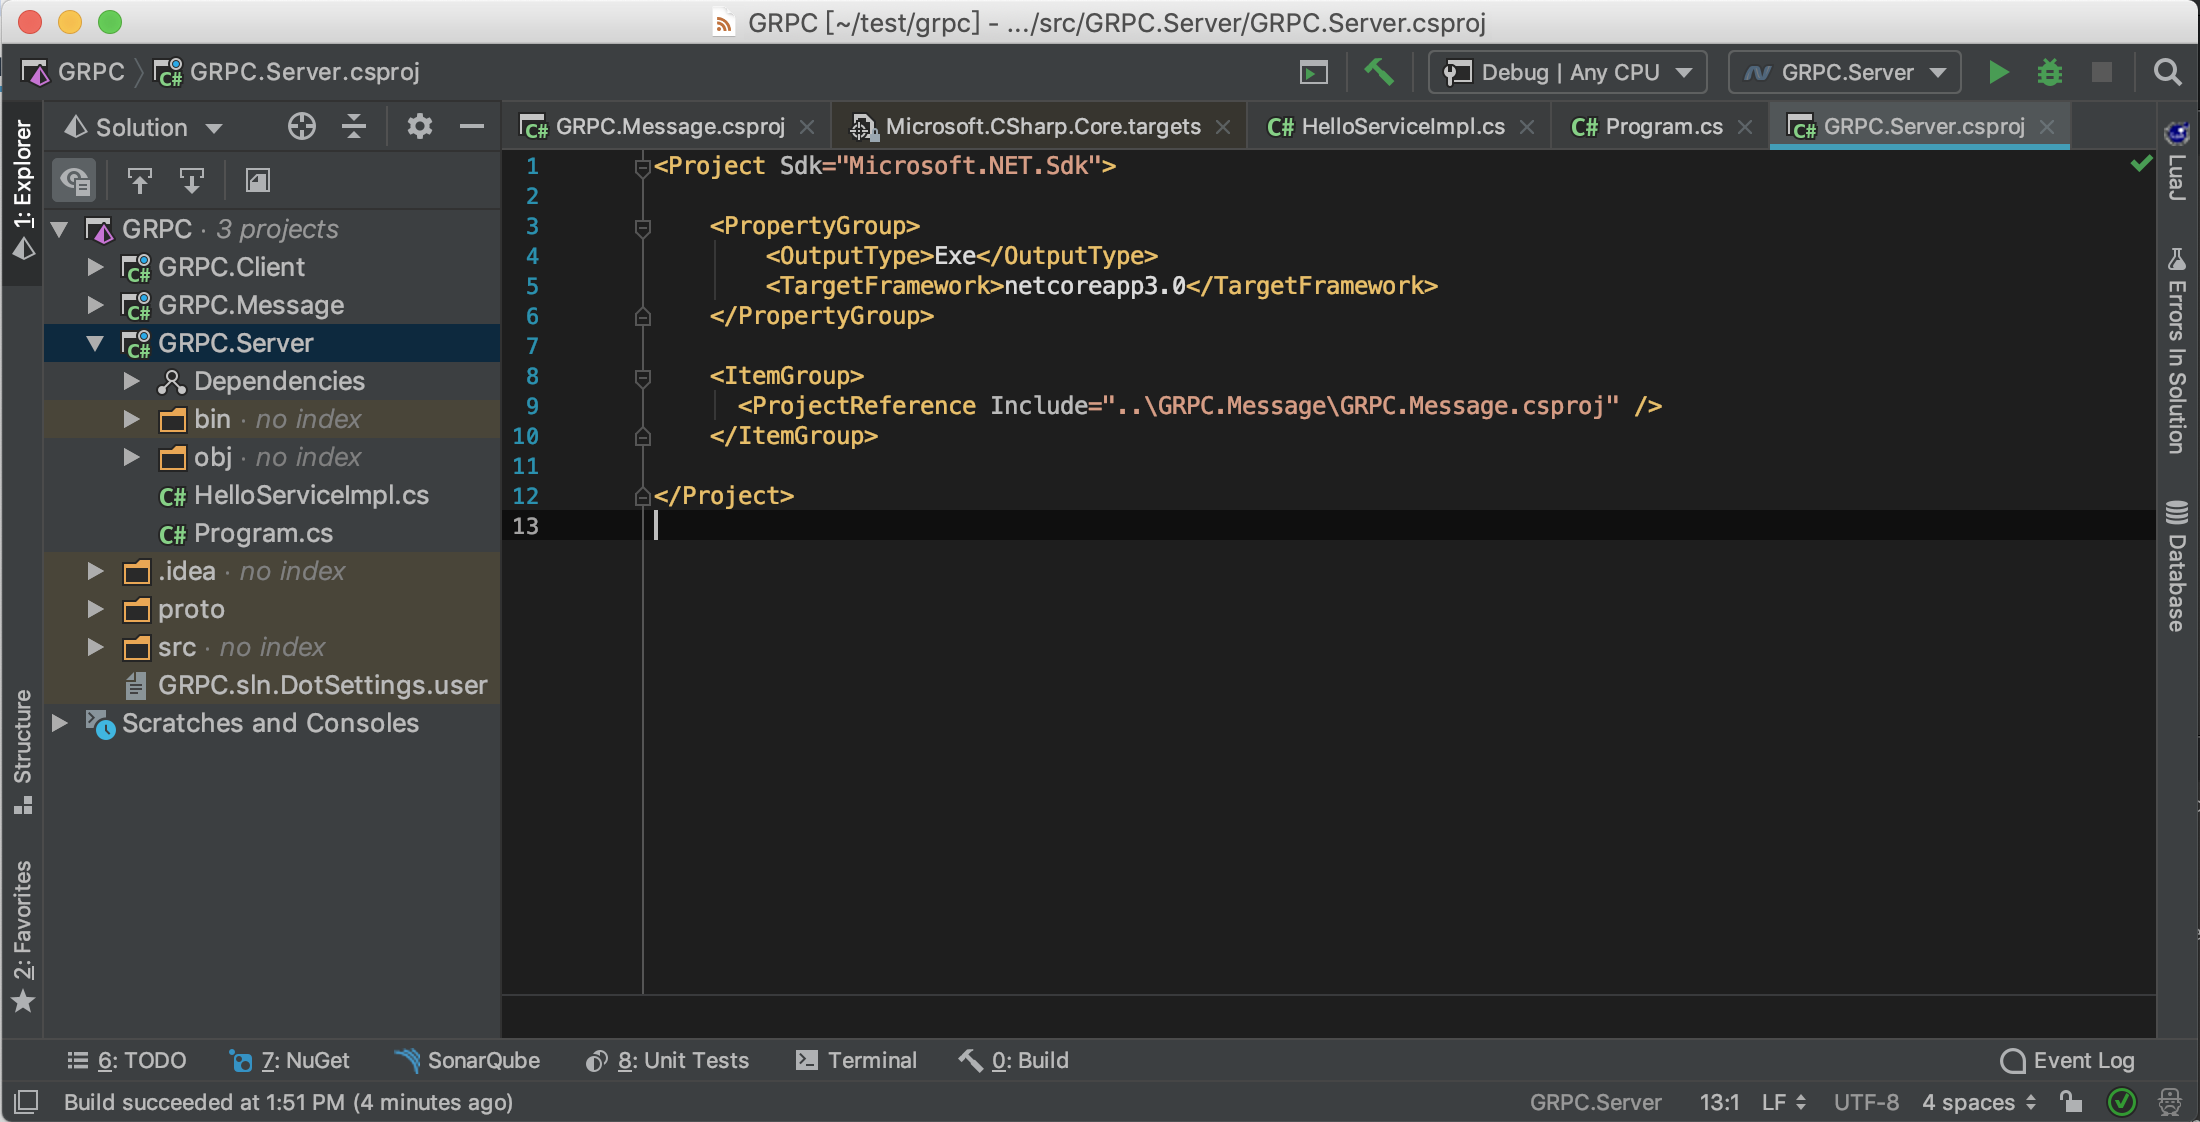
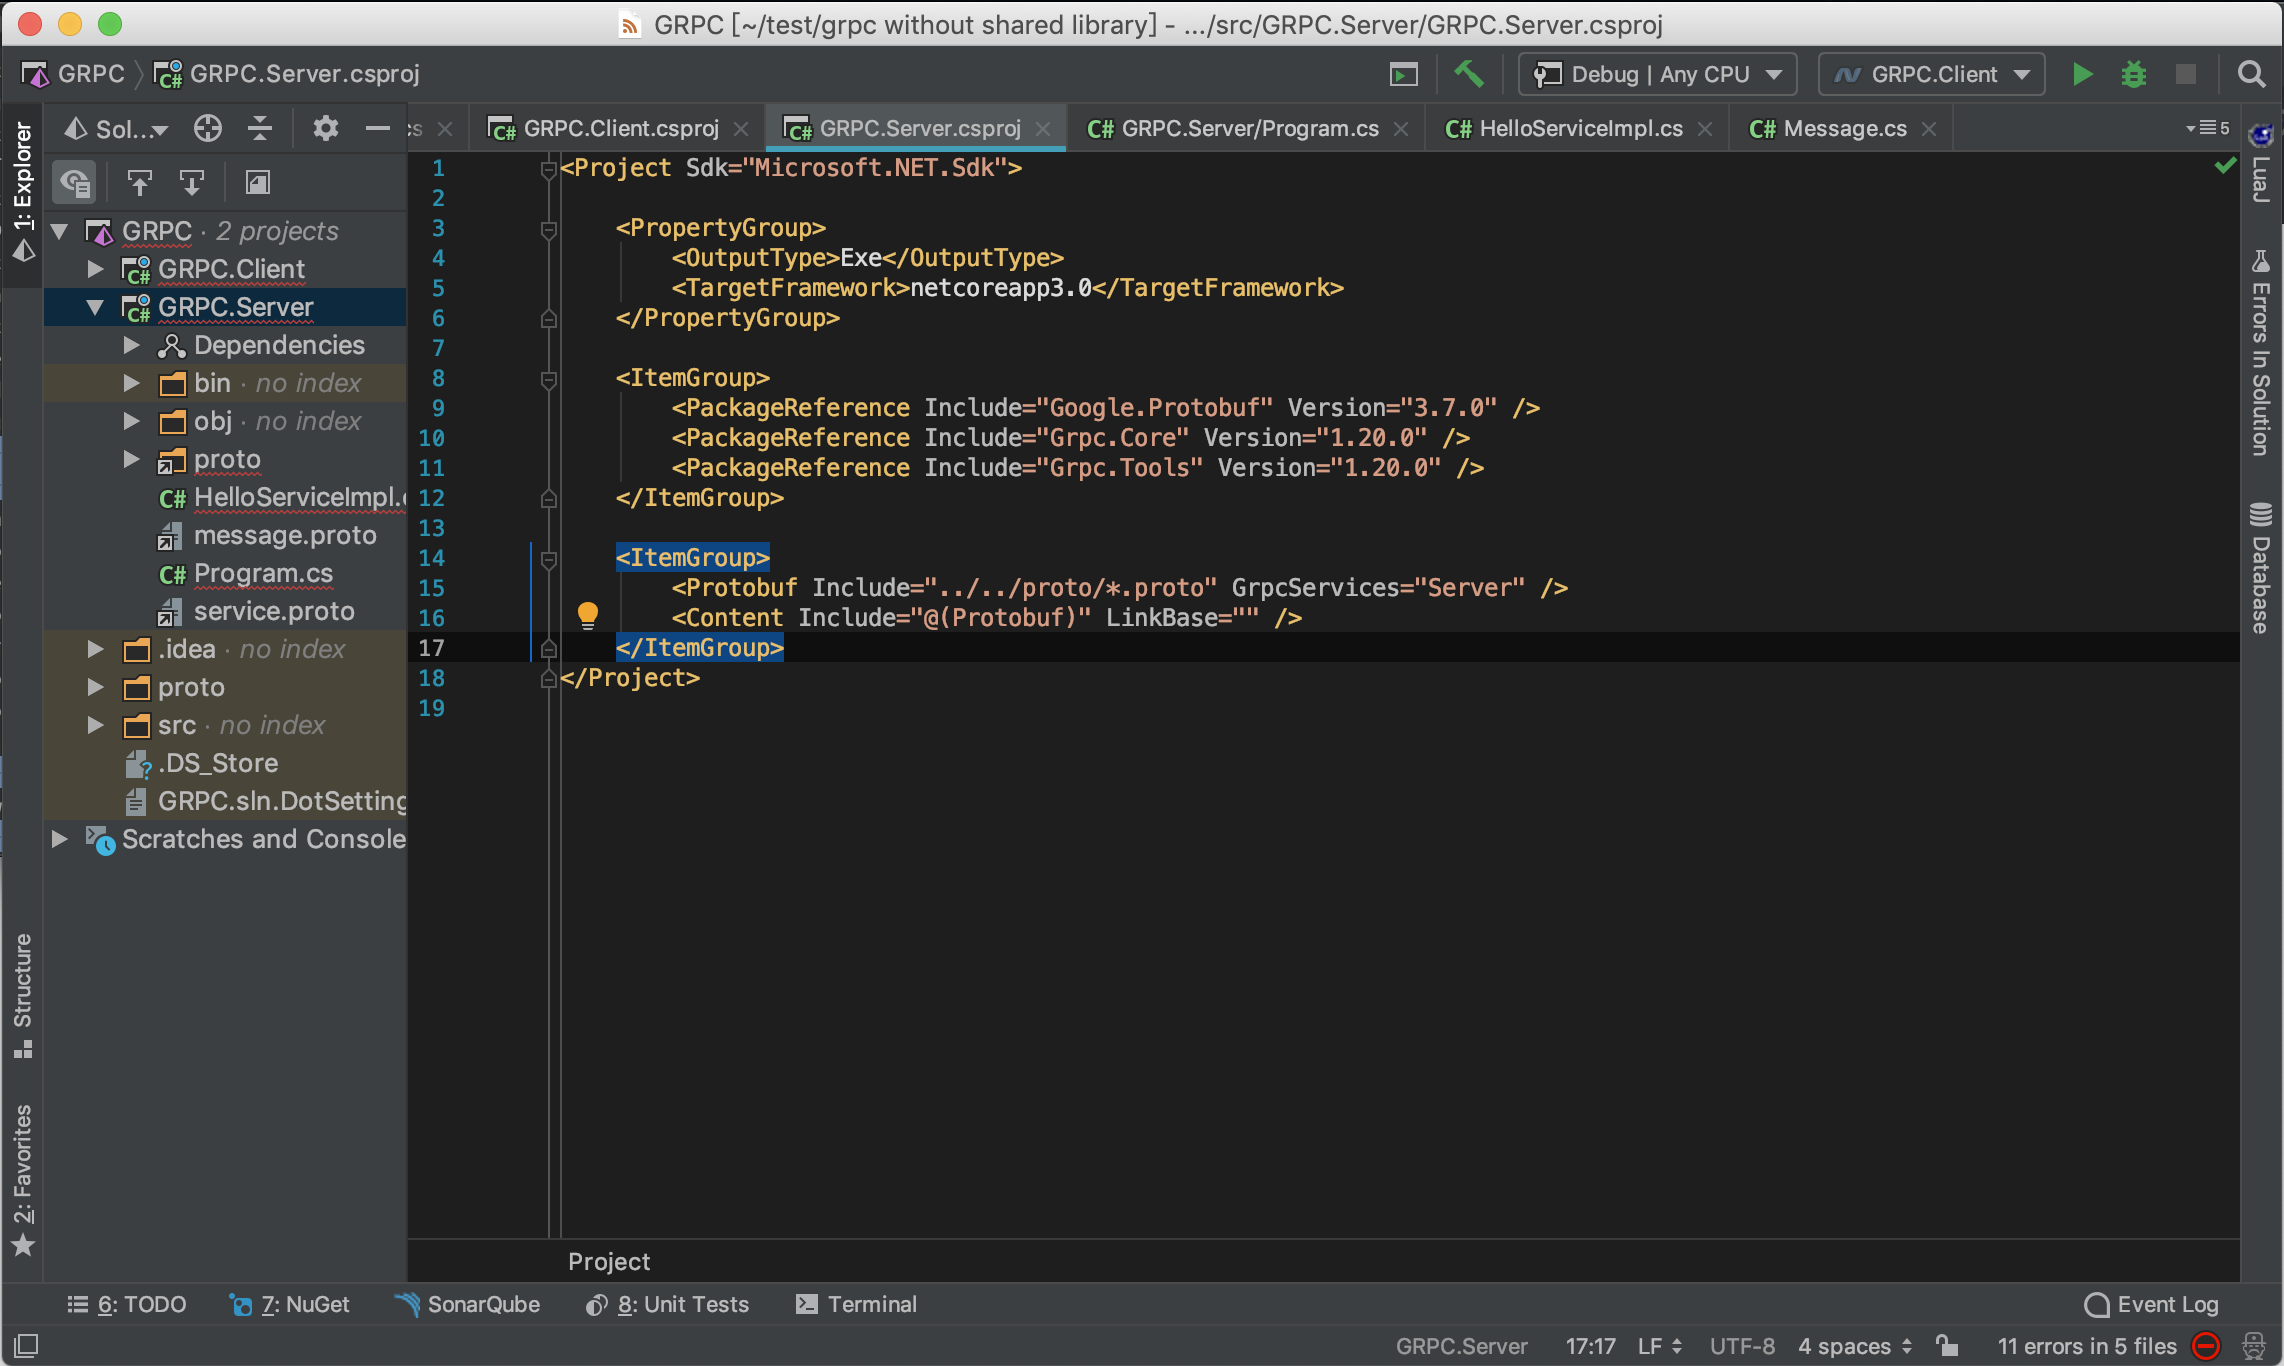
Adjust post

Changed region(s): [[0.0, 0.0, 1.0, 1.0], [0.0, 0.7799, 0.0309, 0.9046]]

diff --git a/source/_posts/gRPC-Create-C-gRPC-server.md b/source/_posts/gRPC-Create-C-gRPC-server.md
@@ -4,58 +4,45 @@ date: 2019-04-18 05:39:37
 tags: [gRPC, CSharp]
 ---
 
-要建立 gRPC 的 Server，先要用 proto 檔產生對應的 Service 類別。  
+要建立 gRPC 的 Server，須先將 GRPC.Tools、GRPC.Core、Google.Protobuf 這三個 NuGet 套件加入參考。  
 
 <!-- More -->
 
-<br/>
-
-
-像是這邊筆者用 proto 定義了一個 Service。  
-
-```
-syntax = "proto3";
-
-import "message.proto";
-
-package GRPC.Message;
-
-service HelloService {
-    rpc SayHello (HelloRequest) returns (HelloResponse) {}
-}
+```C#
+...
+<ItemGroup>
+    <PackageReference Include="Google.Protobuf" Version="3.7.0" />
+    <PackageReference Include="Grpc.Core" Version="1.20.0" />
+    <PackageReference Include="Grpc.Tools" Version="1.20.0" />
+</ItemGroup>
+...
 ```
 
 <br/>
 
 
-該 Service 會使用到的 Message 定義如下。  
+然後設定從 Proto 檔產生需要的程式部分。  
 
+```C#
+<ItemGroup>
+    <Protobuf Include="../../proto/*.proto" GrpcServices="Server" />
+    <Content Include="@(Protobuf)" LinkBase="" />
+</ItemGroup>
 ```
-syntax = "proto3";
-
-package GRPC.Message;
-
-
-message HelloRequest {  
-    string name = 1;
-}
-
-message HelloResponse {  
-    string name = 1;
-}
-```
-
-<br/>
-
-
-在產生完程式碼後在 Server 的專案將它加入參考使用。  
 
 {% asset_img 1.png %}
 
 <br/>
 
 
-然後開始實作 Service。
+編譯後可在 obj 下看到產出的檔案。  
+
+{% asset_img 2.png %}
+
+<br/>
+
+
+接著開始實作 Service。
 
 <br/>
 
@@ -87,7 +74,6 @@ public override Task<HelloResponse> SayHello(HelloRequest request, ServerCallCon
 ```C#
 using System.Threading.Tasks;
 using Grpc.Core;
-using GRPC.Message;
 
 public class HelloServiceImpl:HelloService.HelloServiceBase
 {
@@ -124,7 +110,7 @@ var server = new Grpc.Core.Server();
 
 ```C#
 ...
-server.Services.Add(Message.HelloService.BindService(new HelloServiceImpl()));
+server.Services.Add(HelloService.BindService(new HelloServiceImpl()));
 ...
 ```
 
@@ -181,7 +167,7 @@ namespace GRPC.Server
 
             var server = new Grpc.Core.Server
             {
-                Services = {  Message.HelloService.BindService(new HelloServiceImpl())},
+                Services = {HelloService.BindService(new HelloServiceImpl())},
                 Ports =
                 {
                     new ServerPort(host, port, ServerCredentials.Insecure)
@@ -206,4 +192,4 @@ namespace GRPC.Server
 
 運行起來就可以提供 gRPC 的服務了。  
 
-{% asset_img 2.png %}
+{% asset_img 3.png %}
